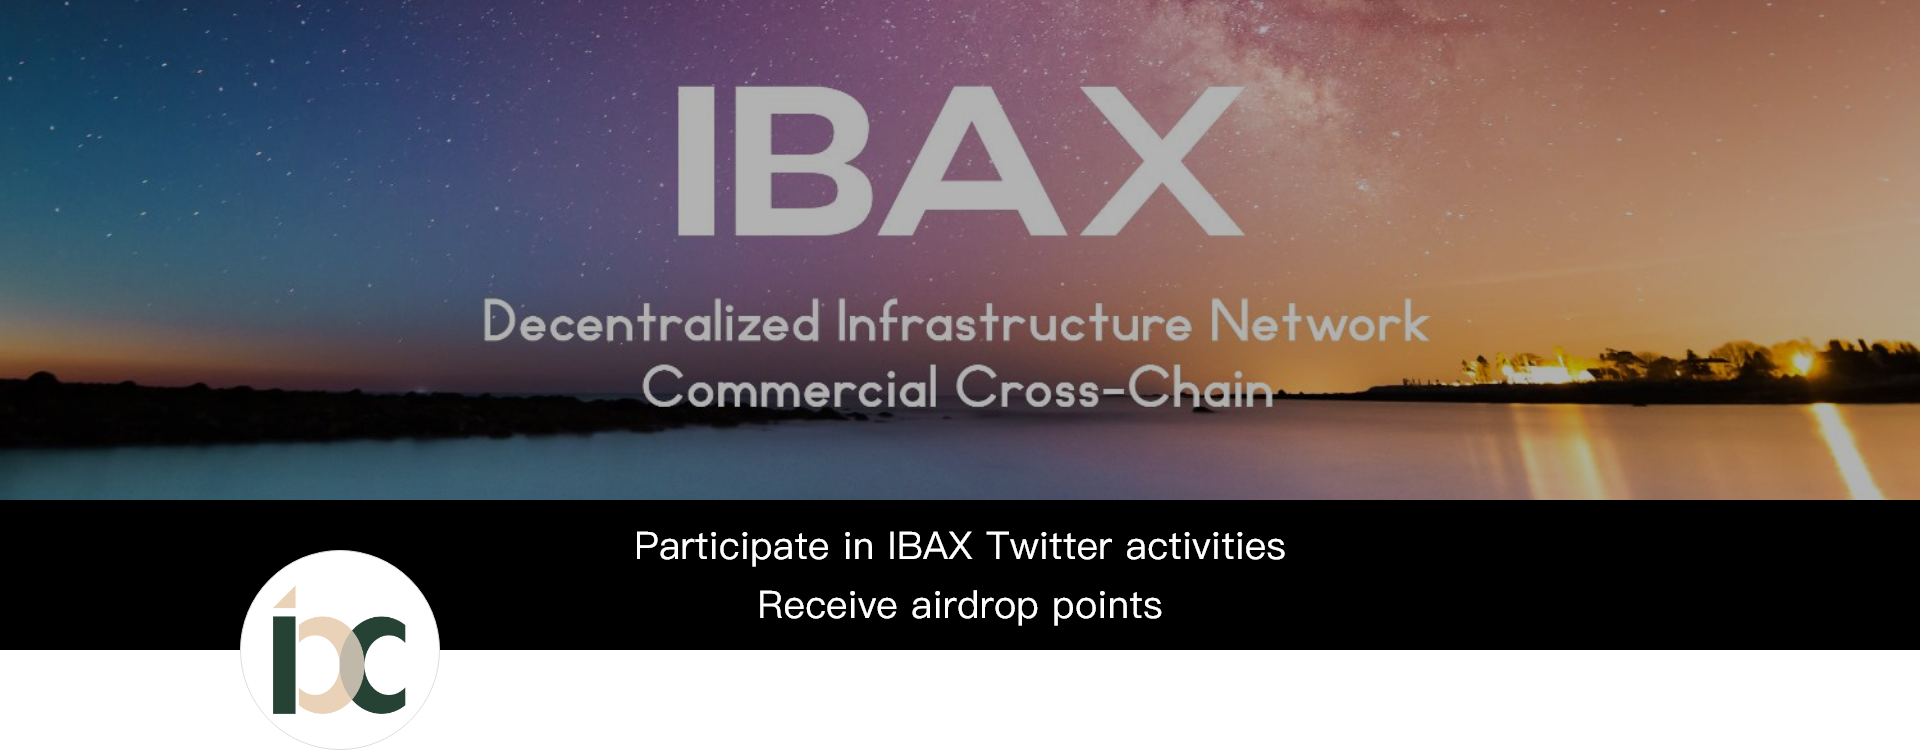
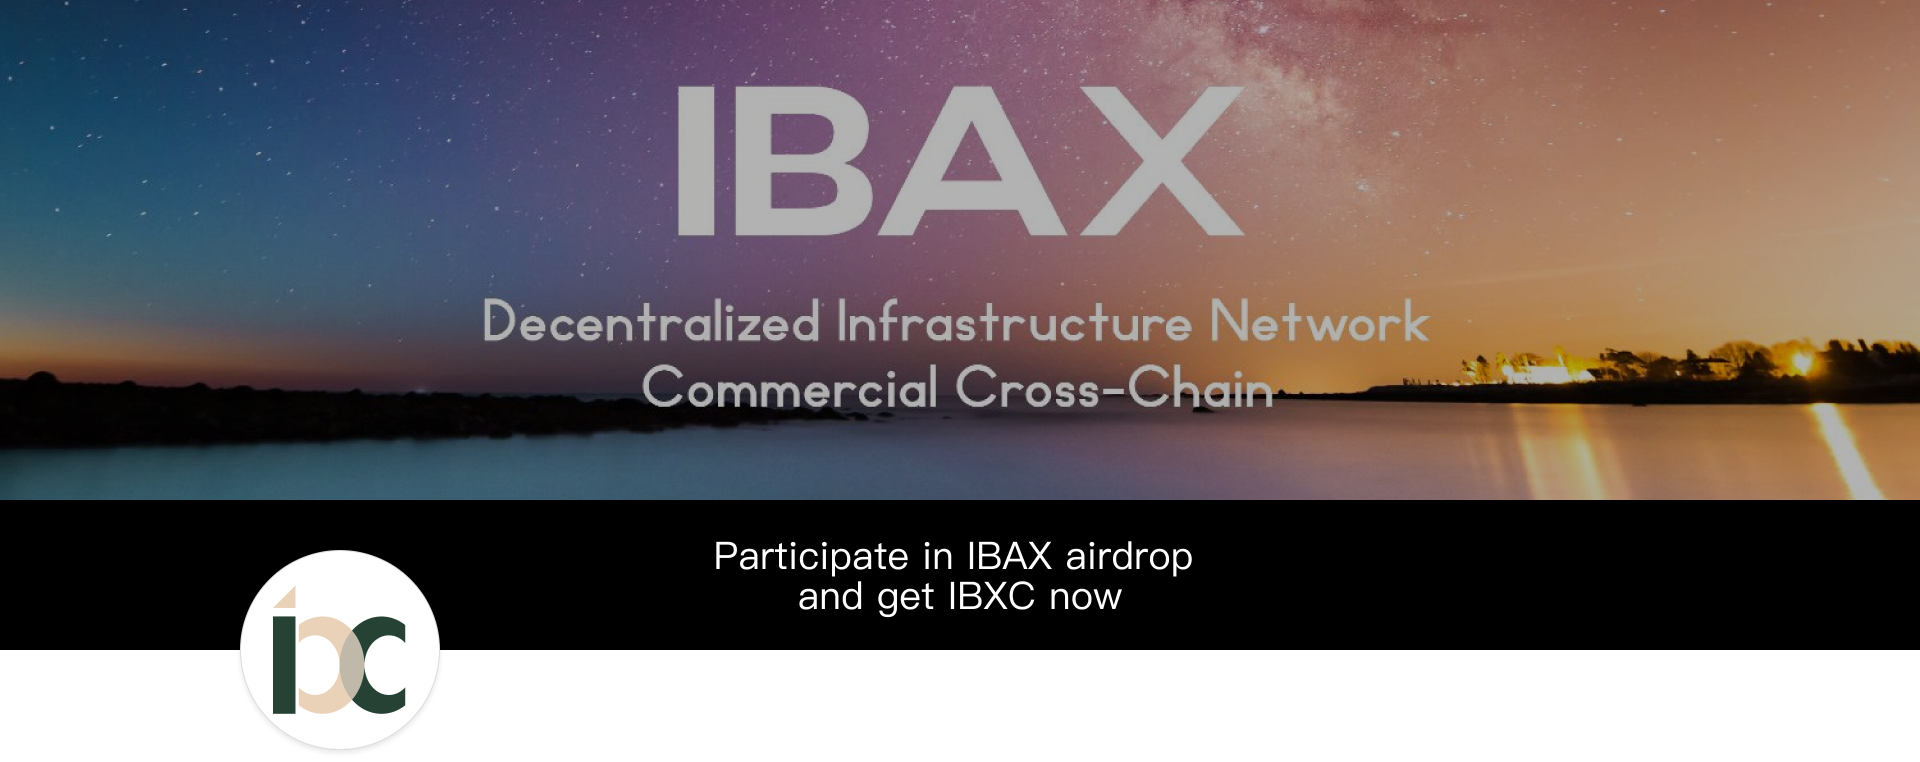
user share

diff --git a/pages/user/component/ShareLeft.vue b/pages/user/component/ShareLeft.vue
@@ -4,11 +4,11 @@
     <div class="personal-code-left-icon">
       <i class="iconfont el-Link" @click="handleCopy"></i>
     </div>
-    <div class="personal-code-left-icon">
-      <i class="iconfont el-a-Two-dimensionalcode" @click="handleCode"></i>
+    <div class="personal-code-left-icon" @click="handleCode">
+      <i class="iconfont el-a-Two-dimensionalcode"></i>
     </div>
-    <div class="personal-code-left-icon">
-      <i class="iconfont el-pictures" @click="handleShare"></i>
+    <div class="personal-code-left-icon" @click="handleShare">
+      <i class="iconfont el-pictures"></i>
     </div>
     <div
       v-show="isCode"
@@ -16,7 +16,7 @@
       @click="handleCodeConfirm"
     >
       <div class="personal-code-left-qr-text">
-        Identify the QR code to enter the mobile version of the event page
+        {{ $t('personal.code') }}
       </div>
       <client-only>
         <vue-qr
@@ -55,11 +55,16 @@ export default {
     };
   },
   computed: {},
-  watch: {},
+  watch: {
+    imgUrl(val, oldval) {
+      this.$refs.shareBox.style.display = 'none';
+    }
+  },
   created() {},
   mounted() {
     const invitecode = localStorage.getItem('invitecode');
     this.strURL = `${this.baseUrl}/login?code=${invitecode}`;
+    //  this.handleHtml2canvas();
     // http://192.168.1.85:8084/login?invitecode=sdasdas&utm_source=utm_source
   },
   methods: {
@@ -90,6 +95,7 @@ export default {
     },
     handleCode() {
       this.isCode = !this.isCode;
+      this.isShore = false;
     },
     handleLeaveCode() {
       this.isCode = false;
@@ -98,21 +104,49 @@ export default {
       console.log(url);
       console.log(qid);
       this.strImgUrl = url;
+      /* if (this.strImgUrl) {
+        this.$nextTick(() => {
+          html2canvas(this.$refs.shareBox).then((canvas) => {
+            this.imgUrl = canvas.toDataURL();
+            console.log(this.imgUrl);
+          });
+        });
+      } */
     },
     handleShare() {
       this.isShore = !this.isShore;
+      this.isCode = false;
     },
     handleLeaveShare() {
       this.isShore = false;
     },
-    handleHtml2canvas() {
-      html2canvas(this.$refs.shareBox).then((canvas) => {
-        this.imgUrl = canvas.toDataURL();
+    async handleHtml2canvas() {
+      /*   html2canvas(this.$refs.shareBox).then((canvas) => {
+        this.imgUrl = canvas.toDataURL('image/png');
+        console.log(this.imgUrl);
         const a = document.createElement('a');
         a.download = 'code-share';
         a.href = this.imgUrl;
         a.dispatchEvent(new MouseEvent('click'));
-        this.isShore = false;
+        this.isShore = false; 
+      }); */
+      this.$message({
+        type: 'success',
+        message: 'Downloading'
+      });
+      const res = await html2canvas(this.$refs.shareBox);
+      console.log(res);
+      console.log(res.toDataURL('image/png'));
+      this.imgUrl = res.toDataURL('image/png');
+      console.log(this.imgUrl);
+      const a = document.createElement('a');
+      a.download = 'code-share';
+      a.href = this.imgUrl;
+      a.dispatchEvent(new MouseEvent('click'));
+      this.isShore = false;
+      this.$message({
+        type: 'success',
+        message: 'Download complete'
       });
     }
   }

diff --git a/pages/user/index.vue b/pages/user/index.vue
@@ -9,10 +9,16 @@
           <div class="personal-box">
             <div class="personal-top">
               <h6 class="title-h6">
-                <span style="margin-right: 10px">{{ $t('personal.own') }}</span
-                >{{ money_format(statistics) }}
+                <span v-if="isTabs" style="margin-right: 10px">{{
+                  $t('personal.own')
+                }}</span>
+                <span v-else style="margin-right: 10px">{{
+                  $t('personal.coins')
+                }}</span>
+                <span>{{ money_format(statistics) }}</span>
+                <span v-if="!isTabs">IBXC</span>
               </h6>
-              <div class="personal-score-text">
+              <div v-if="isTabs" class="personal-score-text">
                 <a
                   v-if="showFollow.status"
                   href="https://twitter.com/IbaxNetwork"
@@ -36,7 +42,13 @@
                   <i class="el-icon-arrow-right"></i>
                 </a>
               </div>
+              <div v-else class="personal-score-text">
+                <span>
+                  {{ $t('personal.invite') }}
+                </span>
+              </div>
             </div>
+
             <div class="personal-right">
               <button
                 class="personal-right-btn"
@@ -76,6 +88,7 @@ export default {
   data() {
     return {
       isTabs: true,
+      strTabs: 'retweet',
       objFollow: {
         where: '',
         order: 'id desc',
@@ -98,13 +111,26 @@ export default {
     handleChangetabs(str) {
       if (str === 'retweet') {
         this.isTabs = true;
+        this.strTabs = 'retweet';
+        this.handlePointsAlready();
       } else {
         this.isTabs = false;
+        this.strTabs = 'share';
+        this.handleInviteStatistics();
       }
     },
     async handlePointsAlready() {
       const res = await this.$axios.$post('/tw/get_points_statistics');
       console.log(res);
+      if (res.code === 0) {
+        this.statistics = res.data.statistics;
+      } else {
+        this.statistics = 0;
+      }
+    },
+    async handleInviteStatistics() {
+      const res = await this.$axios.$post('/tw/get_invite_statistics');
+      // console.log(res);
       if (res.code === 0) {
         this.statistics = res.data.statistics;
       } else {

diff --git a/pages/user/component/UserShare.vue b/pages/user/component/UserShare.vue
@@ -40,8 +40,7 @@
                   </div>
                 </div>
                 <div>
-                  Refer a friend to get IBXC rewards, the top ten can get
-                  additional referral rewards
+                  {{ $t('personal.friends') }}
                 </div>
               </el-col>
             </el-row>
@@ -178,7 +177,6 @@ export default {
   },
   methods: {
     handleShare(tabs) {
-      // console.log(tabs.name);
       const { name } = tabs;
       if (name === 'one') {
         this.handleLeaderBoard();

diff --git a/assets/sass/login.scss b/assets/sass/login.scss
@@ -296,12 +296,12 @@
     }
   }
   &-share {
-    padding: 50px 0;
+    padding-bottom: 50px;
     // background: url("../images/login/background.png") no-repeat center;
     background-size: cover;
     background-color: #e6e6e6;
     &-ranking {
-      padding: 30px 0;
+      padding: 15px 0;
       .title-h6 {
         font-size: 20px;
         margin-bottom: 30px;

diff --git a/assets/sass/layouts.scss b/assets/sass/layouts.scss
@@ -954,7 +954,7 @@
     margin-top: 20px;
   }
   .personal-share {
-    padding: 30px 0;
+    padding-bottom: 30px;
   }
   .personal-share-ranking-white {
     width: 100%;
@@ -1014,5 +1014,11 @@
   }
   .personal-tabs {
     min-height: auto;
+  }
+  .personal-tabs-record-img img {
+    width: 200px;
+  }
+  .personal-rules-right-item {
+    display: block;
   }
 }

diff --git a/nuxt.config.js b/nuxt.config.js
@@ -147,7 +147,6 @@ export default {
       }
     ],
     script: [
-      { src: 'https://cdn.polyfill.io/v2/polyfill.min.js' },
       {
         async: 'async',
         src: 'https://www.googletagmanager.com/gtag/js?id=G-3P74G75LD1'
